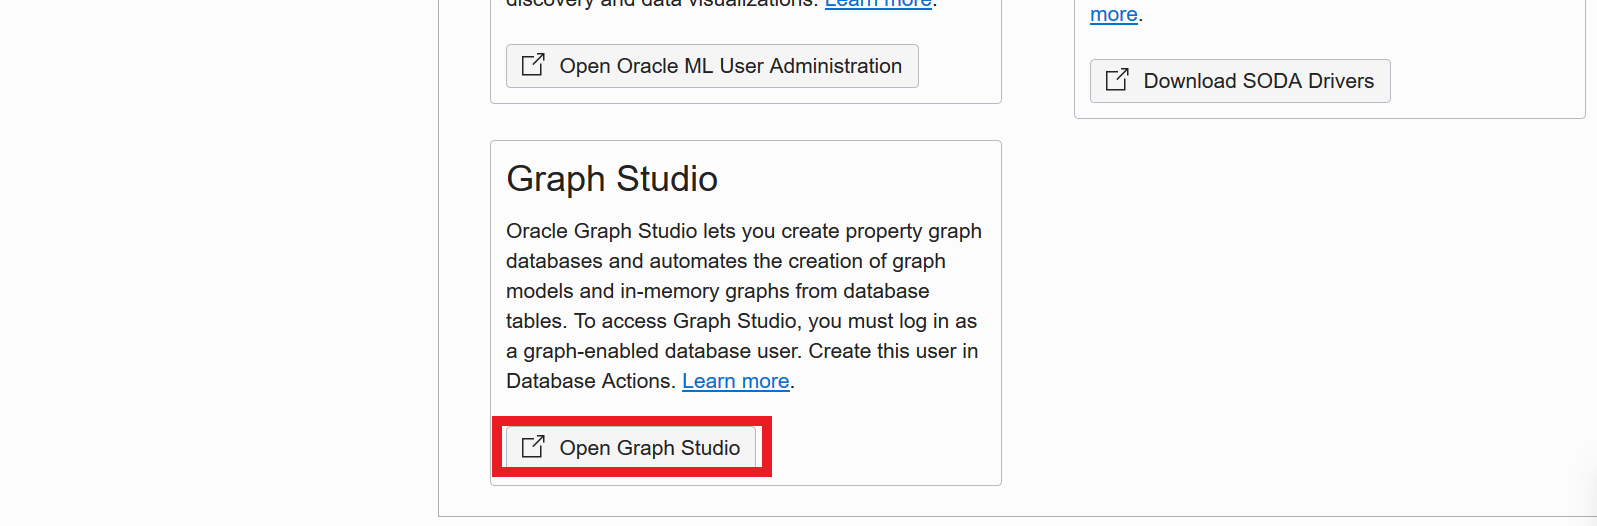
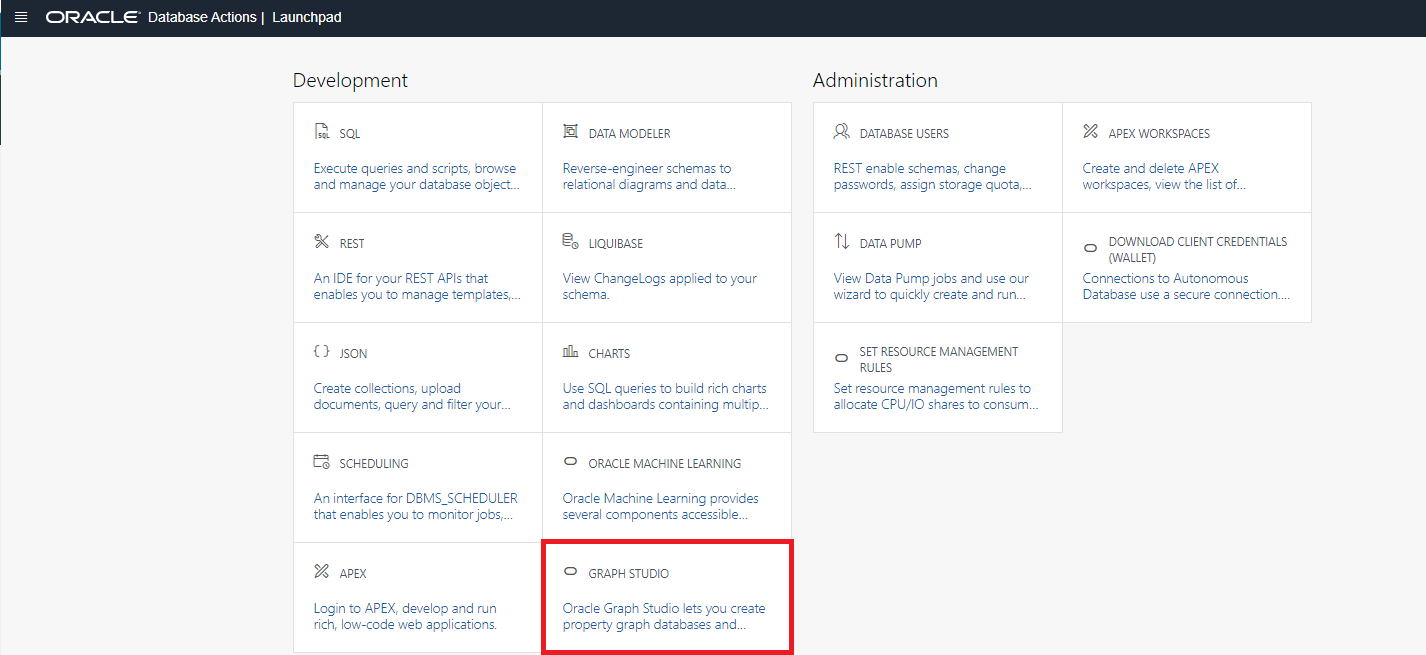
updating movistream-story screenshots to redwood (#61)

diff --git a/movie-stream-story/apply-graph/apply-graph.md b/movie-stream-story/apply-graph/apply-graph.md
@@ -113,13 +113,13 @@ Connect to Autonomous Database tool as the MOVIESTREAM user:
 
 Graph Studio is a feature of Autonomous Database. It is available as an option under the **Tools** tab. You need a graph-enabled user to log into Graph Studio. In this workshop, user MOVIESTREAM has already been graph-enabled.
 
-1. In your Autonomous Database console, click the **Tools** tab and then **Graph Studio**.
+1. In your Autonomous Database console, click the **Database Actions** tab and then under Development click on **Graph Studio**.
 
-    Click **Tools**.
+    Click **Database Actions**.
 
-    ![Click Tools](images/toolstab.png " ")    
+    ![Click Tools, then Database Actions](images/launchdbactions.png " ")   
 
-    Scroll down and click **Graph Studio**.
+    and click **Graph Studio**.
 
     ![Scroll down and click Graph Studio](images/graphstudiofixed.png " ")
 
